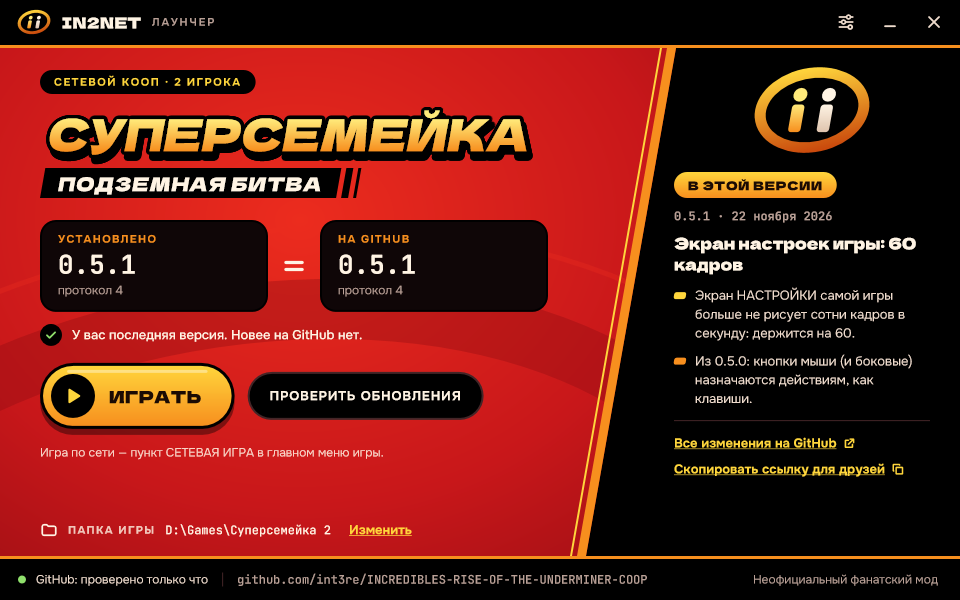
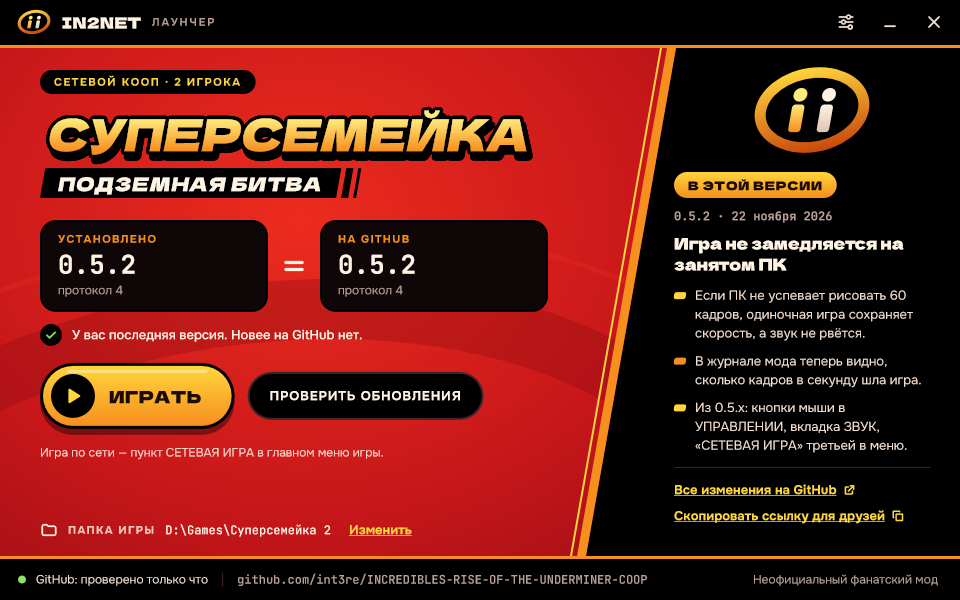
in2net 0.5.2: single player keeps its speed on a PC that cannot show 60 pictures a second
The mod's clock is 1/60 s a frame. A PC whose video card is busy shows
fewer frames, so the game ran in slow motion and its sounds, which go by
the game's clock, were torn. Outside a network game a frame that comes one
to three sixtieths late takes them with it now: the engine makes a longer
step, as it does without the mod. In a network game the clock stays 1/60 s
a frame: every PC must make the same steps.

The log says how many pictures a second were shown. [debug] slow and
fixed_clock for the lab.

diff --git a/src/mod/sim.cpp b/src/mod/sim.cpp
@@ -33,7 +33,13 @@ uint32_t g_calls = 0;  // main thread only
 
 bool g_modal = false;  // the game's settings screen runs: a loop outside the frames, on real time
 
-uint64_t clock_ms() { return (static_cast<uint64_t>(g_frame.load()) * 1000 + 30) / 60 + g_stall_ms.load(); }
+// Sixtieths of a second the clock went on without a frame of their own: a PC that cannot show 60 pictures
+// a second, outside a network game (see pace()).
+std::atomic<uint32_t> g_extra{0};
+
+uint64_t clock_ms() {
+  return (static_cast<uint64_t>(g_frame.load() + g_extra.load()) * 1000 + 30) / 60 + g_stall_ms.load();
+}
 
 uint64_t asked() {
   if (g_modal) return GetTickCount64();  // (kernel32's own: the screen keeps its own time)
@@ -68,13 +74,32 @@ using InputUpdate_t = void(__cdecl*)();
 InputUpdate_t oInputUpdate = nullptr;
 FILE* g_log = nullptr;
 
+// Holds the frames to 60 a second. A PC that cannot show that many (a busy video card) would play the game
+// in slow motion, with its sounds - which go by the game's clock - torn: the clock is 1/60 s a frame. So
+// outside a network game a frame that comes a whole sixtieth late, or two or three, takes them with it: the
+// clock goes on by that much more and the engine makes one longer step, as it does without the mod (it
+// takes steps of up to 0.1 s). The game then keeps its real speed down to 15 pictures a second. In a
+// network game every PC must make the same steps: there the clock stays 1/60 s a frame and a slow PC
+// slows the game for both.
+bool g_real_speed = false;  // (set at install: no network game, no [debug] fixed_clock)
+uint32_t g_late_frames = 0, g_late_ticks = 0;  // since the last word about it in the log
+
 void pace() {
   static LARGE_INTEGER freq{}, next{};
   if (!freq.QuadPart) QueryPerformanceFrequency(&freq);
   LONGLONG period = freq.QuadPart / 60;
   LARGE_INTEGER now;
   QueryPerformanceCounter(&now);
-  if (!next.QuadPart || now.QuadPart - next.QuadPart > period * 4) next = now;  // start / long stall
+  if (!next.QuadPart || now.QuadPart - next.QuadPart > period * 4) {
+    next = now;  // start / long stall (a level being loaded): that time is nobody's
+  } else if (g_real_speed && now.QuadPart - next.QuadPart >= period) {
+    const uint32_t late = static_cast<uint32_t>((now.QuadPart - next.QuadPart) / period);  // 1 ... 4
+    const uint32_t ticks = late > 3 ? 3 : late;
+    g_extra.fetch_add(ticks);
+    next.QuadPart += period * late;
+    ++g_late_frames;
+    g_late_ticks += ticks;
+  }
   for (;;) {
     QueryPerformanceCounter(&now);
     LONGLONG left = next.QuadPart - now.QuadPart;
@@ -247,6 +272,13 @@ void __cdecl hkInputUpdate() {
   if (!g_cfg.fast) pace();
   g_shown_since_gate = 0;
   ++g_frame;
+  if (g_frame.load() % 1800 == 0) {  // (a word for whoever reads a player's log; a hiccup or two is not worth one)
+    if (g_late_frames >= 30)
+      LOGI("sim: %u of the last 1800 frames came late (this PC shows fewer than 60 pictures a second now): the clock went on "
+           "%u sixtieths of a second without a frame, the game keeps its speed",
+           g_late_frames, g_late_ticks);
+    g_late_frames = g_late_ticks = 0;
+  }
   g_calls = 0;
   rng_trace_frame(g_frame.load());
   sound::on_frame();
@@ -320,6 +352,7 @@ uint64_t now_ms() { return clock_ms(); }
 
 void install(const Config& cfg) {
   g_cfg = cfg;
+  g_real_speed = cfg.net_mode == Config::Net::Off && !cfg.fixed_clock && !cfg.fast;
   static const uint8_t jle[] = {0x7E, 0x09};
   static const uint8_t jmp[] = {0xEB, 0x09};
   if (!patch::replace("the game loop's own frame limiter", game::kLoopLimiterJle, jle, jmp, 2)) {
@@ -346,7 +379,8 @@ void install(const Config& cfg) {
     patch::hook("random integer", game::kRandInt, (void*)&hkRandInt, &oRandInt);
   }
   if (cfg.sim_log) g_log = _wfopen((module_dir() + L"in2net-sim.log").c_str(), L"w");
-  LOGI("sim: the game's clock is the mod's: 1/60 s a frame%s", cfg.fast ? ", frames not paced ([debug] fast)" : "");
+  LOGI("sim: the game's clock is the mod's: 1/60 s a frame%s%s", cfg.fast ? ", frames not paced ([debug] fast)" : "",
+       g_real_speed ? "; a frame that comes late takes the lost sixtieths with it" : "");
 }
 
 }  // namespace sim

diff --git a/src/mod/video.cpp b/src/mod/video.cpp
@@ -279,7 +279,16 @@ void save_shot(IDirect3DDevice9* dev, unsigned frame) {
 
 HRESULT WINAPI hkPresent(IDirect3DDevice9* dev, const RECT* src, const RECT* dst, HWND wnd, const RGNDATA* dirty) {
   unsigned f = ++g_frames;
-  if (f == 1 || f == 60 || f % 3600 == 0) LOGI("video: %u frames presented", f);
+  if (f == 1 || f == 60) LOGI("video: %u frames presented", f);
+  if (f % 1800 == 0) {  // (and how fast: what a player's log has to say about a game that "lags")
+    static DWORD mark = 0;
+    DWORD t = GetTickCount();
+    if (mark && t != mark)
+      LOGI("video: %u frames presented, %.1f a second lately", f, 1800 * 1000.0 / (t - mark));
+    else
+      LOGI("video: %u frames presented", f);
+    mark = t;
+  }
   if (tlog::enabled(tlog::Debug)) {
     static DWORD t0 = GetTickCount();
     static unsigned f0 = f;
@@ -290,6 +299,7 @@ HRESULT WINAPI hkPresent(IDirect3DDevice9* dev, const RECT* src, const RECT* dst
       f0 = f;
     }
   }
+  if (g_cfg.slow_ms > 0) Sleep(static_cast<DWORD>(g_cfg.slow_ms));  // ([debug] slow: a busy video card)
   sim::on_present();   // (a loop of the game's that passes no frame gate is held to 60 pictures a second)
   postfx::apply(dev);  // the finished frame: crisper, its colours fuller
   if ((g_cfg.shot_every && f % g_cfg.shot_every == 0) ||

diff --git a/src/mod/config.h b/src/mod/config.h
@@ -104,6 +104,11 @@ struct Config {
   std::string save_dir;
   // fast = 1: frames are not held to 60 a second (the game's clock is not real time anyway).
   bool fast = false;
+  // slow = N: every picture takes N ms more to show (a busy video card: a PC that cannot show 60 a second).
+  int slow_ms = 0;
+  // fixed_clock = 1: the clock is 1/60 s a frame even without a network game (a frame that comes late does
+  // not take the lost time with it): two runs of one script are then the same whatever the PC's load.
+  bool fixed_clock = false;
   // sim_log = 1: one line per game frame in in2net-sim.log (to compare two runs).
   bool sim_log = false;
   // rng_trace = <from>-<to>: for these game frames every draw of a random number goes to in2net-rng.log.

diff --git a/src/mod/config.cpp b/src/mod/config.cpp
@@ -128,6 +128,8 @@ bool load_config(const std::wstring& path, Config& cfg) {
   cfg.force_shadows = get_int(path, L"debug", L"shadows", -1);
   cfg.camera_log = static_cast<unsigned>(get_int(path, L"debug", L"camera_log", 0));
   cfg.fast = get_bool(path, L"debug", L"fast", false);
+  cfg.fixed_clock = get_bool(path, L"debug", L"fixed_clock", false);
+  cfg.slow_ms = get_int(path, L"debug", L"slow", 0);
   cfg.ui_log = get_bool(path, L"debug", L"ui_log", false);
   cfg.notice_test = get_int(path, L"debug", L"notice", 0);
   cfg.ui_font = get_int(path, L"debug", L"ui_font", -1);

diff --git a/src/common/version.h b/src/common/version.h
@@ -1,3 +1,3 @@
 #pragma once
-#define IN2NET_VERSION "0.5.1"
-#define IN2NET_VERSION_W L"0.5.1"
+#define IN2NET_VERSION "0.5.2"
+#define IN2NET_VERSION_W L"0.5.2"

diff --git a/dist/README.md b/dist/README.md
@@ -1,4 +1,4 @@
-# in2net 0.5.1 — мод для «Суперсемейка: Подземная битва»
+# in2net 0.5.2 — мод для «Суперсемейка: Подземная битва»
 
 Мод для The Incredibles: Rise of the Underminer (ПК, 2005). Пробная версия.
 
@@ -13,6 +13,9 @@
   две строки вверху кадра на несколько секунд, написанные самой игрой.
 - **60 кадров в секунду.** В оригинале из-за собственного ограничителя игра идёт примерно на 31 кадре.
   Экран «НАСТРОЙКИ» самой игры тоже держится на 60 (в 0.5.0 и раньше он рисовал сотни кадров в секунду).
+  Если компьютер не успевает рисовать 60 кадров (занята видеокарта), одиночная игра идёт в настоящем темпе,
+  как в оригинале, — только менее плавно; звук при этом не рвётся. В сетевой игре шаги у обоих игроков должны
+  быть одинаковыми, поэтому там медленный компьютер замедляет игру у обоих.
 - **Окно без рамки или обычное окно** вместо полного экрана поверх всего; Alt+Tab работает сразу.
 - **Широкий экран.** Кадр по форме монитора, обзор шире по бокам; интерфейс и меню не растянуты.
 - **Своя камера у каждого игрока в сетевой игре.** Каждый видит своего героя в центре и крупно.

diff --git a/README.md b/README.md
@@ -6,7 +6,7 @@
 </p>
 
 <p align="center">
-  <img alt="версия 0.5.1" src="https://img.shields.io/badge/версия-0.5.1-E2231A">
+  <img alt="версия 0.5.2" src="https://img.shields.io/badge/версия-0.5.2-E2231A">
   <img alt="лаунчер 1.2.0" src="https://img.shields.io/badge/лаунчер-1.2.0-F78F1E">
   <img alt="Windows 10/11" src="https://img.shields.io/badge/Windows-10%20%2F%2011-0078d4">
   <img alt="2 игрока" src="https://img.shields.io/badge/игроков-2-FFD63C">
